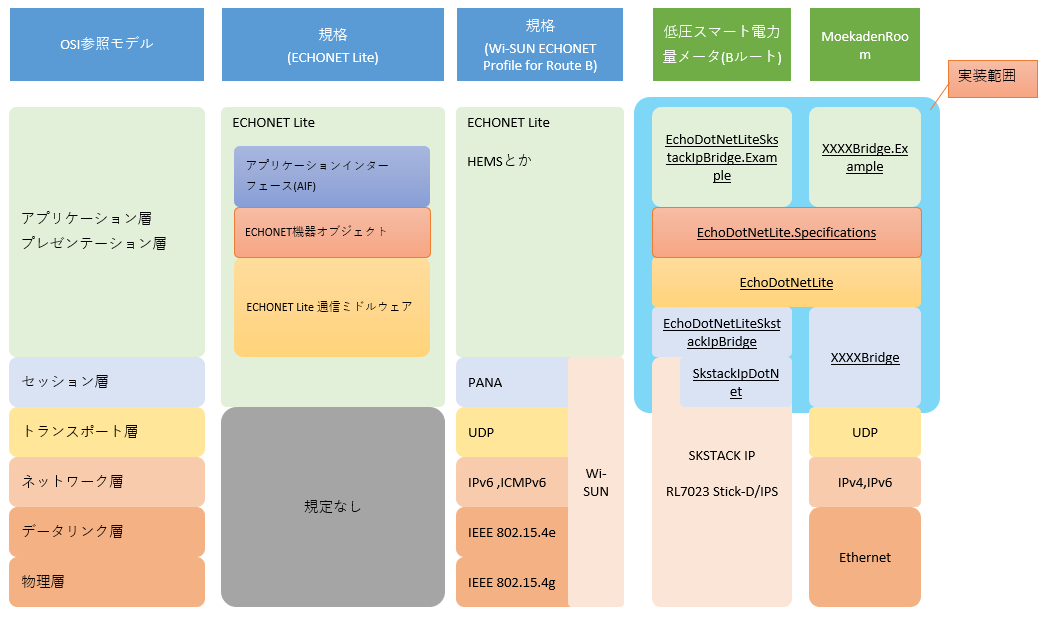
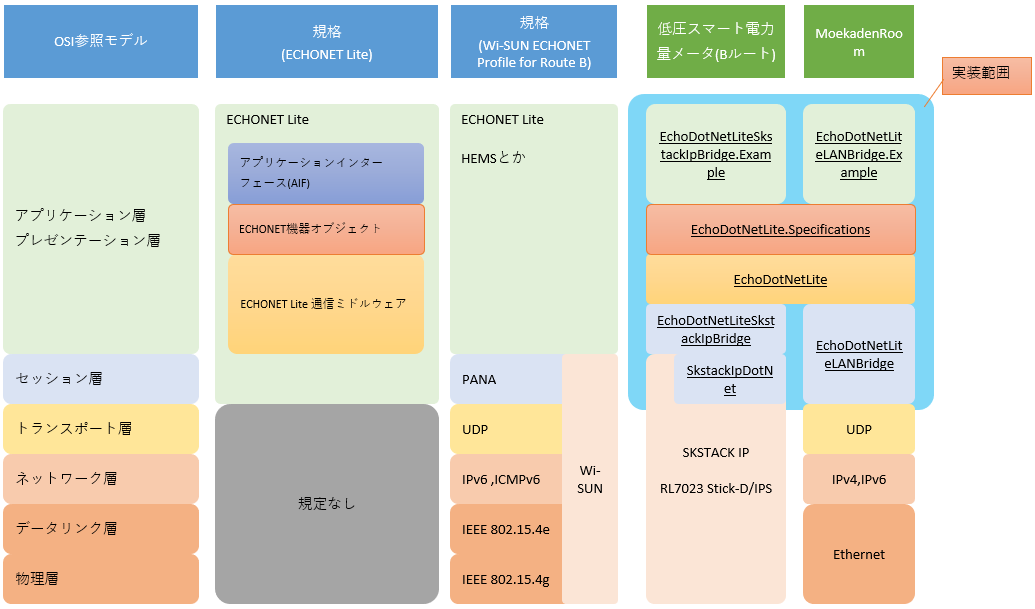
RaspberyPi上で動作確認 マスタ系ファイルパスの扱いを修正 Dns.GetHostAddressesから、NetworkInterface.GetAllNetworkInterfacesに変更

diff --git a/EchoDotNetLite.Specifications/EchonetObject.cs b/EchoDotNetLite.Specifications/EchonetObject.cs
@@ -19,7 +19,8 @@ namespace EchoDotNetLite.Specifications
             if (ClassGroup != null)
             {
                 //スーパークラスのプロパティを列挙
-                var superClassFilePath = $".\\MasterData\\{ClassGroup.SuperClass}.json";
+                
+                var superClassFilePath = Path.Combine(Directory.GetCurrentDirectory(), "MasterData", $"{ClassGroup.SuperClass}.json");
                 if (File.Exists(superClassFilePath))
                 {
                     var superClassProperties = JsonConvert.DeserializeObject<PropertyMaster>(File.ReadAllText(superClassFilePath, new UTF8Encoding(false)));
@@ -28,7 +29,7 @@ namespace EchoDotNetLite.Specifications
                 Class = ClassGroup.ClassList.Where(c => c.Status && c.ClassCode == classCode).FirstOrDefault();
                 if (Class.Status)
                 {
-                    var classFilePath = $".\\MasterData\\0x{ClassGroup.ClassGroupCode:X2}-{ClassGroup.ClassGroupName}\\0x{Class.ClassCode:X2}-{Class.ClassName}.json";
+                    var classFilePath = Path.Combine(Directory.GetCurrentDirectory(), "MasterData",$"0x{ClassGroup.ClassGroupCode:X2}-{ClassGroup.ClassGroupName}", $"0x{Class.ClassCode:X2}-{Class.ClassName}.json");
                     if (File.Exists(classFilePath))
                     {
                         //クラスのプロパティを列挙

diff --git a/EchoDotNetLiteLANBridge/LANClient.cs b/EchoDotNetLiteLANBridge/LANClient.cs
@@ -4,6 +4,7 @@ using Microsoft.Extensions.Logging;
 using System;
 using System.Linq;
 using System.Net;
+using System.Net.NetworkInformation;
 using System.Net.Sockets;
 using System.Threading.Tasks;
 
@@ -16,8 +17,7 @@ namespace EchoDotNetLiteLANBridge
         private static int DefaultUdpPort = 3610;
         public LANClient(ILogger<LANClient> logger)
         {
-            string hostname = Dns.GetHostName();
-            var selfAddresses = Dns.GetHostAddresses(hostname).Select(ip=>ip.ToString()).ToList();
+            var selfAddresses = NetworkInterface.GetAllNetworkInterfaces().SelectMany(ni => ni.GetIPProperties().UnicastAddresses.Select(ua => ua.Address.ToString()));
             _logger = logger;
             try
             {
@@ -29,6 +29,7 @@ namespace EchoDotNetLiteLANBridge
             catch (Exception ex)
             {
                 _logger.LogDebug(ex, "Exception");
+                throw;
             }
             Task.Run(async () =>
             {

diff --git a/EchoDotNetLiteSkstackIpBridge.Example/Program.cs b/EchoDotNetLiteSkstackIpBridge.Example/Program.cs
@@ -71,22 +71,21 @@ namespace EchoDotNetLiteSkstackIpBridge.Example
                     serviceProvider.GetService<EchoClient>().Initialize(skStackClient.SelfIpaddr);
                     Task.Run(() => serviceProvider.GetService<Example>().ExecuteAsync());
                 }
-                Console.ReadKey();
+                Task.WaitAll(Task.Delay(-1));
             }
             catch (AggregateException ex)
             {
                 logger.LogError(ex, "AggregateException");
-                Console.ReadKey();
             }
             catch (Exception ex)
             {
                 logger.LogError(ex, "Exception");
-                Console.ReadKey();
             }
             finally
             {
                 skStackClient?.Close();
             }
+            Task.WaitAll(Task.Delay(-1));
         }
 
     }

diff --git a/EchoDotNetLiteLANBridge.Example/Program.cs b/EchoDotNetLiteLANBridge.Example/Program.cs
@@ -46,22 +46,21 @@ namespace EchoDotNetLiteLANBridge.Example
             try
             {
                 Task.Run(() => serviceProvider.GetService<Example>().ExecuteAsync());
-                Console.ReadKey();
+                Task.WaitAll(Task.Delay(-1));
             }
             catch (AggregateException ex)
             {
                 logger.LogError(ex, "AggregateException");
-                Console.ReadKey();
             }
             catch (Exception ex)
             {
                 logger.LogError(ex, "Exception");
-                Console.ReadKey();
             }
             finally
             {
                 lanClient?.Dispose();
             }
+            Task.WaitAll(Task.Delay(-1));
         }
     }
 }

diff --git a/EchoDotNetLite.Specifications/SpecificationMaster.cs b/EchoDotNetLite.Specifications/SpecificationMaster.cs
@@ -30,7 +30,8 @@ namespace EchoDotNetLite.Specifications
         {
             if (_Instance == null)
             {
-                _Instance = JsonConvert.DeserializeObject<SpecificationMaster>(File.ReadAllText(".\\MasterData\\SpecificationMaster.json", new UTF8Encoding(false)));
+                var filePath = Path.Combine(Directory.GetCurrentDirectory(), "MasterData", "SpecificationMaster.json");
+                _Instance = JsonConvert.DeserializeObject<SpecificationMaster>(File.ReadAllText(filePath, new UTF8Encoding(false)));
             }
             return _Instance;
         }
